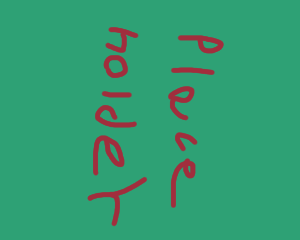
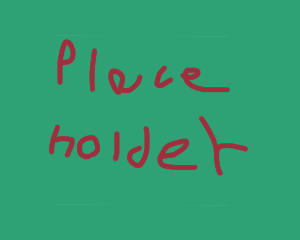
mobile 320-768 done

diff --git a/style.css b/style.css
@@ -1,5 +1,5 @@
 :root {
-	--blue-color: hsl(199, 65%, 54%);
+	--blue-color: hsl(202, 65%, 54%);
 }
 
 * {
@@ -9,8 +9,7 @@
 	font-family: 'Roboto', sans-serif;
 }
 /* Header */
-header {
-}
+
 h1,
 h2,
 h6 {
@@ -18,18 +17,20 @@ h6 {
 }
 
 .picture-background {
-	background: linear-gradient(135deg, var(--blue-color) 50%, hsl(0, 0%, 100%) 50%);
+	background: linear-gradient(170deg, var(--blue-color) 75%, hsl(0, 0%, 100%) 25%);
+	display: flex;
+	justify-content: center;
 }
 
 .picture-container {
 	padding: 20px;
-	display: flex;
-	justify-content: center;
+	display: block;
 	position: relative;
+	width: clamp(250px, 100%, 500px);
 }
 .picture-container picture {
 	display: block;
-	min-width: 100%;
+	width: 100%;
 	height: auto;
 }
 .picture-container picture img {
@@ -37,13 +38,14 @@ h6 {
 	display: block;
 	width: 100%;
 	height: auto;
+	object-fit: cover;
 }
 .picture-container h1 {
 	color: white;
 	position: absolute;
 	bottom: 25px;
 	left: 35px;
-	font-size: clamp(4rem, 20vw, 10rem);
+	font-size: clamp(4rem, 18vw, 5.5rem);
 	overflow-wrap: break-word;
 	text-shadow: 3px 3px 5px rgba(0, 0, 0, 0.589);
 }
@@ -59,18 +61,21 @@ h2 {
 }
 .text-container p {
 	color: rgb(97, 97, 97);
-	padding: 10px;
+	padding: clamp(10px, 5vw, 50px);
+	overflow-wrap: break-word;
+	max-width: 100%;
 	font-size: 1.25rem;
 }
 .header-links {
 	display: flex;
 	justify-content: center;
+	padding: clamp(10px, 3vw, 30px) 0;
 }
 .header-links a {
-	margin: 0 10px;
+	margin: 0 clamp(10px, 3vw, 30px);
 }
 .header-links img {
-	width: 30px;
+	width: clamp(40px, 8vw, 50px);
 }
 
 /* My works */
@@ -81,14 +86,20 @@ So I might return to this later. */
 	--repeat-count: 1;
 	display: grid;
 	grid-template-columns: repeat(var(--repeat-count), 1fr);
+	gap: 10%;
 	padding: 5%;
-	gap: 5%;
 	align-items: center;
+	justify-items: center;
 	justify-content: center;
 	width: 100%;
+	/* This margin is a bandaid fix for overflow issues.  Once again maybe return to this later */
+	margin: clamp(0px, 35%, 200px) 0%;
 }
 .project {
-	box-shadow: 0px 3px 13px rgba(0, 0, 0, 0.26);
+	box-shadow: 5px 3px 15px rgba(0, 0, 0, 0.26);
+	min-height: 0;
+	max-height: 600px;
+	max-width: 500px;
 }
 .project > img {
 	width: 100%;
@@ -97,31 +108,105 @@ So I might return to this later. */
 .links-name-wrapper {
 	display: flex;
 	justify-content: space-between;
+	align-items: center;
+}
+.links-name-wrapper h3 {
+	width: 70%;
+	text-align: center;
+	font-size: clamp(1.5rem, 6vw, 1.9rem);
+
+	font-weight: normal;
+	padding: 2.5% 0;
 }
 
 .title-links {
 	display: flex;
 	align-items: center;
 	justify-content: space-between;
+	width: 30%;
+}
+.title-links a {
+	padding: 0 5px;
 }
 .title-links img {
-	width: 25px;
+	width: 85%;
 	height: auto;
-	padding: 0 5px;
+	max-width: 40px;
 }
 
 .desc {
-	min-height: 100%;
+	font-size: 1rem;
+	font-size: clamp(1rem, 3vw, 1.3rem);
+	color: rgb(97, 97, 97);
+	padding: 5%;
+	padding-bottom: 15%;
 }
 
-@media (min-width: 500px) {
+/* Footer Section */
+
+footer {
+	background-color: var(--blue-color);
+}
+.footer-text {
+	padding: 2% 5%;
+}
+footer h2,
+footer p,
+footer address {
+	color: white;
+}
+
+footer p {
+	font-size: clamp(1.25rem, 3.9vw, 1.8rem);
+	padding: min(80px, 7%) 0%;
+}
+footer address {
+	font-size: 1.1rem;
+	font-size: clamp(1.1rem, 3.2vw, 1.5rem);
+	font-style: normal;
+}
+address img {
+	display: none;
+}
+
+.footer-links {
+	display: flex;
+	align-items: center;
+	justify-content: center;
+	padding: min(30px, 10%);
+}
+.footer-links a {
+	padding: 0 5%;
+}
+.footer-links img {
+	width: 50px;
+	height: auto;
+}
+
+footer picture {
+	width: 100%;
+	height: 100%;
+	display: block;
+}
+footer picture img {
+	display: block;
+	min-width: 100%;
+	height: auto;
+
+	/* GET RID OF THIS LATER */
+	max-width: 700px;
+}
+
+@media (min-width: 769px) {
 	.projects-wrapper {
 		--repeat-count: 2;
+		margin: 10% 0;
 	}
 }
 
-@media (min-width: 800px) {
+@media (min-width: 1278px) {
 	.projects-wrapper {
 		--repeat-count: 3;
+		margin: 0;
 	}
 }

diff --git a/index.html b/index.html
@@ -19,7 +19,8 @@
 				<div class="picture-container">
 					<h1>John Johnson</h1>
 					<picture>
-						<source media="(min-width: 700px)" srcset="./assets/single-og.jpg" />
+						<source media="(min-width: 769px)" srcset="./assets/single-og.jpg" />
+						<source media="(min-width: 500px)" srcset="./assets/single-500.png" />
 						<img src="./assets/single-small.png" alt="A man working on a laptop" />
 					</picture>
 				</div>
@@ -109,29 +110,33 @@
 			</div>
 		</main>
 		<footer>
-			<h2>Contact me</h2>
-			<p>Please get in touch if you think our work could be mutually beneficial</p>
-			<address>
-				1234 Random Road<br />
-				Random Town, California 12345<br />
-				<br />
-				<span><img src="./assets/phone-outline.svg" alt="" class="unrequired" aria-hidden="true" />[phone redacted]</span>
-				<span
-					><img
-						src="./assets/email-outline.svg"
-						alt=""
-						class="unrequired"
-						aria-hidden="true"
-					/>[email redacted]</span
-				>
-			</address>
-			<div class="footer-links">
-				<a href=""><img src="./assets/github.svg" alt="Github" /></a>
-				<a href=""><img src="./assets/linkedin.svg" alt="LinkedIn" /></a>
-				<a href=""><img src="./assets/x.svg" alt="X.com" /></a>
+			<div class="footer-text">
+				<h2>Contact me</h2>
+				<p>Please get in touch if you think our work could be mutually beneficial</p>
+				<address>
+					1234 Random Road<br />
+					Random Town, California 12345<br />
+					<br />
+					<span><img src="./assets/phone-outline.svg" alt="" class="unrequired" aria-hidden="true" />[phone redacted]</span>
+					<span
+						><img
+							src="./assets/email-outline.svg"
+							alt=""
+							class="unrequired"
+							aria-hidden="true"
+						/>[email redacted]</span
+					>
+				</address>
+				<div class="footer-links">
+					<a href=""><img src="./assets/github.svg" alt="Github" /></a>
+					<a href=""><img src="./assets/linkedin.svg" alt="LinkedIn" /></a>
+					<a href=""><img src="./assets/x.svg" alt="X.com" /></a>
+				</div>
 			</div>
 			<picture>
-				<source media="(min-width: 700)" srcset="./assets/group-og.jpg" />
+				<!-- Could maybe use a image that is taller rather than wider here. -->
+				<source media="(min-width: 769px)" srcset="./assets/group-og.jpg" />
+				<source media="(min-width: 500px)" srcset="./assets/group-500.png" />
 				<img src="./assets/group-small.png" alt="A group of employees" />
 			</picture>
 		</footer>

diff --git a/README.md b/README.md
@@ -1,3 +1,3 @@
 Three people looking at ipad is from Tima Miroshnichenko on pexels.com https://www.pexels.com/photo/employees-looking-at-the-screen-of-a-tablet-5439369/
 One person working on lapton from MART PRODUCTION on pexels.com https://www.pexels.com/photo/businessman-man-person-people-7255726/
-LinkedIn, Github, and X logo svgs from devicon.dev
+LinkedIn, Github, and X logo svgs from devicon.dev (linkedin logo edited by claude to be transparent in the center.)